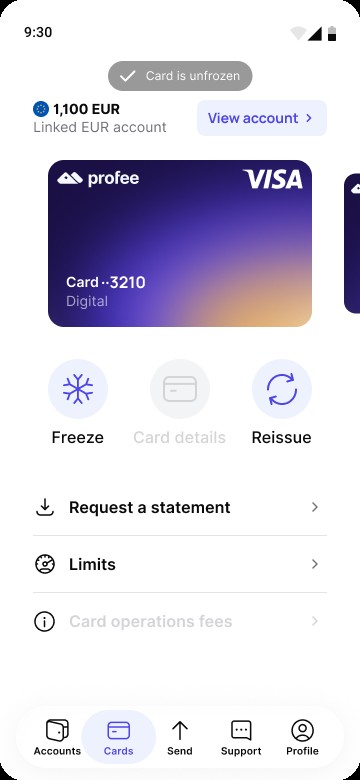
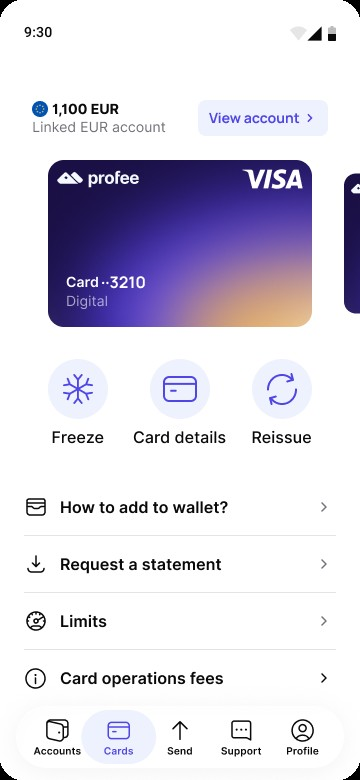
Cards: account constraint in context, iterations start from Accounts, new card screens, 13 languages

diff --git a/case-profee-cards.html b/case-profee-cards.html
@@ -197,8 +197,8 @@ body {
       <span class="t-en">Cards – rebuilding a product area from the ground up</span>
       <span class="t-ru">Карты – раздел, собранный заново</span>
     </h1>
-    <p class="hero-desc t-en">Profee already had cards – a tab left over from an older generation of the app, cramped and disconnected from the wallet. The bet: a card that looks and works like a real product will make people keep money in Profee and pay with it. I redesigned the whole area for iOS and Android</p>
-    <p class="hero-desc t-ru">Карты в Profee уже были – вкладка из старой версии приложения, тесная и никак не связанная с кошельком. Ставка была такая: если карта будет выглядеть и работать как нормальный продукт, люди начнут держать деньги в Profee и платить ею. Я заново спроектировала весь раздел для iOS и Android</p>
+    <p class="hero-desc t-en">Profee already had cards – a tab left over from an older generation of the app: cards as tiles in a carousel, with nothing about the money behind them. The bet: a card that looks and works like a real product will make people keep money in Profee and pay with it. I redesigned the whole area for iOS and Android</p>
+    <p class="hero-desc t-ru">Карты в Profee уже были – вкладка из старой версии приложения: карты плитками в карусели, и ни слова о деньгах за ними. Ставка была такая: если карта будет выглядеть и работать как нормальный продукт, люди начнут держать деньги в Profee и платить ею. Я заново спроектировала весь раздел для iOS и Android</p>
     <dl class="case-facts">
       <div><dt><span class="t-en">My role</span><span class="t-ru">Моя роль</span></dt><dd><span class="t-en">Product designer, end to end: competitive audit of card products, IA of the Cards tab, every iOS and Android flow, three top-up iterations, the Cards tab and the linked account screen, and the copy with my own Claude-based agents</span><span class="t-ru">Продуктовый дизайнер, от начала до конца: разбор карточных продуктов конкурентов, структура вкладки «Карты», все сценарии iOS и Android, три итерации пополнения, вкладка «Карты» и экран привязанного счёта, тексты – с помощью своих агентов на Claude</span></dd></div>
       <div><dt><span class="t-en">Team</span><span class="t-ru">Команда</span></dt><dd><span class="t-en">Product manager, design lead on review, iOS and Android developers, backend and QA</span><span class="t-ru">Продакт-менеджер, лид дизайна на ревью, iOS- и Android-разработчики, бэкенд и QA</span></dd></div>
@@ -224,9 +224,11 @@ body {
       <span class="t-en">The card existed – nobody treated it as a product</span>
       <span class="t-ru">Карта была, но продуктом её никто не считал</span>
     </h2>
-    <p class="t-en">Profee is built for cross-border remittances. By autumn 2025 it also had a wallet people could top up – and a Cards tab inherited from an older version of the app: a carousel of cards, four buttons, an empty history, and no connection to the balance people actually held</p>
-    <p class="t-ru">Profee – сервис международных переводов. К осени 2025 в нём уже был кошелёк, который можно пополнять, и вкладка «Карты», доставшаяся от старой версии приложения: карусель карт, четыре кнопки, пустая история и никакой связи с деньгами, которые у людей лежали на балансе</p>
+    <p class="t-en">Profee is built for cross-border remittances. By autumn 2025 it also had a wallet people could top up – and a Cards tab inherited from an older version of the app: a carousel of cards, four buttons, an empty history, and nothing that showed which account a card spends from</p>
+    <p class="t-ru">Profee – сервис международных переводов. К осени 2025 в нём уже был кошелёк, который можно пополнять, и вкладка «Карты», доставшаяся от старой версии приложения: карусель карт, четыре кнопки, пустая история и ни слова о том, с какого счёта карта тратит деньги</p>
+    <p class="t-en"><strong>The constraint.</strong> Accounts existed in Profee long before this project, and the backend ties them to cards one way: every card gets its own EUR account when it is issued, one account per card. A card can't spend from an account the person already has, and one account can't hold several cards. The design had to make that clear, not hide it</p>
     <p class="t-en">Competitors – Wise, Revolut, N26 – all offered virtual or physical cards. There was no user research behind the decision – it was a competitive gap and a bet: a card that people want to use would turn the wallet from a transit point into a place to keep money</p>
+    <p class="t-ru"><strong>Ограничение.</strong> Счета в Profee появились задолго до этого проекта, и бэкенд связывает их с картами только в одну сторону: при выпуске у каждой карты открывается свой счёт в евро, один счёт на одну карту. Тратить с уже существующего счёта карта не может, и несколько карт на одном счёте тоже нельзя. Дизайн должен был сделать это понятным, а не спрятать</p>
     <p class="t-ru">У конкурентов – Wise, Revolut, N26 – карты, виртуальные или пластиковые, были у всех. Исследований за решением не стояло – только отставание от конкурентов и ставка: удобная карта превратит кошелёк из перевалочного пункта в место, где деньги хранят</p>
 
   </section>
@@ -365,8 +367,8 @@ body {
       </div>
     </div>
 
-    <p class="t-en"><strong>Copy without the routine.</strong> Cards was the feature where the team started using AI in everyday work. I wrote and checked every text in the area with my own Claude-based agents and uploaded the strings to Phrase through Claude – and later straight into the iOS and Android code, dropping Phrase altogether</p>
-    <p class="t-ru"><strong>Тексты без рутины.</strong> На картах команда начала всерьёз использовать ИИ в работе. Все тексты раздела я писала и проверяла своими агентами на Claude, строки заливала во Phrase через Claude, а потом – сразу в код iOS и Android, и от Phrase мы отказались</p>
+    <p class="t-en"><strong>Copy without the routine.</strong> Cards was the feature where the team started using AI in everyday work. I wrote, checked and localized every text in the area into 13 languages with my own Claude-based agents – they follow the editorial policy and rules we set for them – and uploaded the strings to Phrase through Claude – and later straight into the iOS and Android code, dropping Phrase altogether</p>
+    <p class="t-ru"><strong>Тексты без рутины.</strong> На картах команда начала всерьёз использовать ИИ в работе. Все тексты раздела я писала, проверяла и переводила на 13 языков своими агентами на Claude – они работают по редполитике и правилам, которые мы им задали, – строки заливала во Phrase через Claude, а потом – сразу в код iOS и Android, и от Phrase мы отказались</p>
   </section>
 </div>
 
@@ -457,21 +459,30 @@ window.protoScripts = {
     <p class="section-label t-en">Iterations</p>
     <p class="section-label t-ru">Итерации</p>
     <h2>
-      <span class="t-en">Balance first or card first? Both – on different screens</span>
-      <span class="t-ru">Сначала баланс или карта? И то и другое – на разных экранах</span>
+      <span class="t-en">Started from the balance, ended with the card</span>
+      <span class="t-ru">Начали с баланса, пришли к карте</span>
     </h2>
-    <p class="t-en">Before launch the tab went in two directions. One put the EUR balance on top and shrank the card to a tile or a strip. The other put a big card on top, with the balance and Add to Apple Wallet under it. Each answered a different question: "how much do I have" and "which card do I pay with". So in the shipped version they split: the Cards tab opens the card, with its linked balance one tap above it, and the balance-first layout became the account screen</p>
-    <p class="t-ru">До запуска вкладка шла в двух направлениях. В одном сверху был баланс в евро, а карта сжималась до плитки или полоски. В другом сверху была большая карта, под ней баланс и «Добавить в Apple Wallet». Каждое отвечало на свой вопрос: «сколько у меня денег» и «какой картой я плачу». Поэтому в финале они разошлись по разным экранам: вкладка «Карты» открывает карту с балансом в одном касании над ней, а вариант «сначала баланс» стал экраном счёта</p>
+    <p class="t-en">Accounts came first in Profee, so the first versions started there: the familiar account screen with the balance on top, and the card fitted in as a tile or a strip. But Cards is its own section of the app, and the link only goes one way – every card has an account, while an account can live without a card. So the tab turned card-first, and the account screen kept the balance on top, with the card added as a strip</p>
+    <p class="t-ru">Счета в Profee появились раньше карт, поэтому первые версии шли от них: привычный экран счёта с балансом наверху, а карта встраивалась плиткой или полоской. Но карты – отдельный раздел приложения, и связь работает только в одну сторону: у каждой карты есть счёт, а счёт может жить и без карты. Поэтому вкладка стала «сначала карта», а экран счёта остался с балансом наверху – в него добавилась полоска карты</p>
 
     <div class="screen-group-head">
       <div>
-        <h3><span class="t-en">Six versions, two directions</span><span class="t-ru">Шесть версий, два направления</span></h3>
-        <p class="t-en">Balance first – the first three. Card first – the last three</p>
-        <p class="t-ru">Первые три – сначала баланс. Последние три – сначала карта</p>
+        <h3><span class="t-en">From the account to the card</span><span class="t-ru">От счёта к карте</span></h3>
+        <p class="t-en">Where it started, three balance-first versions, three card-first ones</p>
+        <p class="t-ru">Откуда начали, три версии «сначала баланс» и три – «сначала карта»</p>
       </div>
     </div>
     <div class="screens-scroll">
       <div class="screens-row">
+        <div class="screen-item">
+          <img src="images/cards/iterations/start-account.jpg" alt="The existing Accounts screen: EUR balance, Top up and Send, history" loading="lazy">
+          <div class="screen-cap">
+            <strong class="t-en">Starting point</strong>
+            <strong class="t-ru">Отправная точка</strong>
+            <span class="t-en">An ordinary account in Accounts – the screen cards had to fit into</span>
+            <span class="t-ru">Обычный счёт во вкладке «Счета» – экран, в который нужно было встроить карты</span>
+          </div>
+        </div>
         <div class="screen-item">
           <img src="images/cards/iterations/balance-card-tile.jpg" alt="Exploration: EUR balance first, the card as a small tile below" loading="lazy">
           <div class="screen-cap">
@@ -532,15 +543,15 @@ window.protoScripts = {
     <div class="tradeoff">
       <p class="tradeoff-label t-en">Behind the scenes</p>
       <p class="tradeoff-label t-ru">Внутренняя кухня</p>
-      <p class="t-en">Add to Apple Wallet was the main button in the card-first versions. Mid-project it turned out the app can't add the card to Apple Wallet directly – that takes a separate integration we didn't have. The button went, and the shipped version has a How to add to wallet guide instead</p>
-      <p class="t-ru">В версиях «сначала карта» главной кнопкой было «Добавить в Apple Wallet». По ходу работы выяснилось, что добавить карту в Apple Wallet прямо из приложения технически нельзя – для этого нужна отдельная интеграция, которой у нас не было. Кнопку убрали, а в финале вместо неё инструкция «Как добавить в Wallet»</p>
+      <p class="t-en">Add to Apple Wallet was the main button in the card-first versions. Mid-project it turned out that adding the card to Apple Wallet straight from the app needed work too heavy to fit the deadline. The button went, and the shipped version has a How to add to wallet guide instead</p>
+      <p class="t-ru">В версиях «сначала карта» главной кнопкой было «Добавить в Apple Wallet». По ходу работы выяснилось, что добавление карты в Apple Wallet прямо из приложения требует слишком тяжёлой доработки и не влезает в сроки. Кнопку убрали, а в финале вместо неё инструкция «Как добавить в Wallet»</p>
     </div>
 
     <div class="screen-group-head">
       <div>
         <h3><span class="t-en">What shipped</span><span class="t-ru">Что вышло</span></h3>
-        <p class="t-en">Each direction won its own screen</p>
-        <p class="t-ru">Каждое направление получило свой экран</p>
+        <p class="t-en">The card leads in Cards, the balance leads in the account</p>
+        <p class="t-ru">В «Картах» главная карта, в счёте – баланс</p>
       </div>
     </div>
     <div class="screens-scroll">
@@ -550,8 +561,8 @@ window.protoScripts = {
           <div class="screen-cap">
             <strong class="t-en">Cards tab</strong>
             <strong class="t-ru">Вкладка «Карты»</strong>
-            <span class="t-en">From card first: the card leads, its linked balance is one tap away above it</span>
-            <span class="t-ru">Из «сначала карта»: карта главная, привязанный баланс – в одно касание над ней</span>
+            <span class="t-en">The card leads, its linked account and balance are one tap away above it</span>
+            <span class="t-ru">Карта главная, привязанный счёт и баланс – в одно касание над ней</span>
           </div>
         </div>
         <div class="screen-item">
@@ -559,16 +570,16 @@ window.protoScripts = {
           <div class="screen-cap">
             <strong class="t-en">Linked account</strong>
             <strong class="t-ru">Привязанный счёт</strong>
-            <span class="t-en">From balance first: the balance, Top up and Send, the card as a strip below</span>
-            <span class="t-ru">Из «сначала баланс»: баланс, «Пополнить» и «Отправить», карта – полоской ниже</span>
+            <span class="t-en">The existing account screen, with the card added as a strip under the balance</span>
+            <span class="t-ru">Прежний экран счёта, в который добавилась полоска карты под балансом</span>
           </div>
         </div>
       </div>
     </div>
     <blockquote class="insight t-en">
-      Across the iterations the question changed: not "where do I put the card", but "what is the person looking for on this screen – the money or the card"
+      The rule that settled it: every card has an account, but not every account has a card – so the card leads in Cards, and the balance leads in the account
     </blockquote>
-    <blockquote class="insight t-ru">От версии к версии поменялся сам вопрос: не «куда поставить карту», а «что человек ищет на этом экране – деньги или карту»</blockquote>
+    <blockquote class="insight t-ru">Спор решило правило: у каждой карты есть счёт, но не у каждого счёта есть карта. Поэтому в «Картах» главная карта, а в счёте – баланс</blockquote>
   </section>
 </div>
 
@@ -635,8 +646,8 @@ window.protoScripts = {
           <div class="screen-cap">
             <strong class="t-en">Card is unfrozen</strong>
             <strong class="t-ru">Карта разморожена</strong>
-            <span class="t-en">Same toast pattern back, the card art clears</span>
-            <span class="t-ru">То же уведомление в обратную сторону – карта оттаивает</span>
+            <span class="t-en">Back to active: the frost clears and every action returns</span>
+            <span class="t-ru">Снова активна: иней сходит, все действия возвращаются</span>
           </div>
         </div>
         <div class="screen-item">
